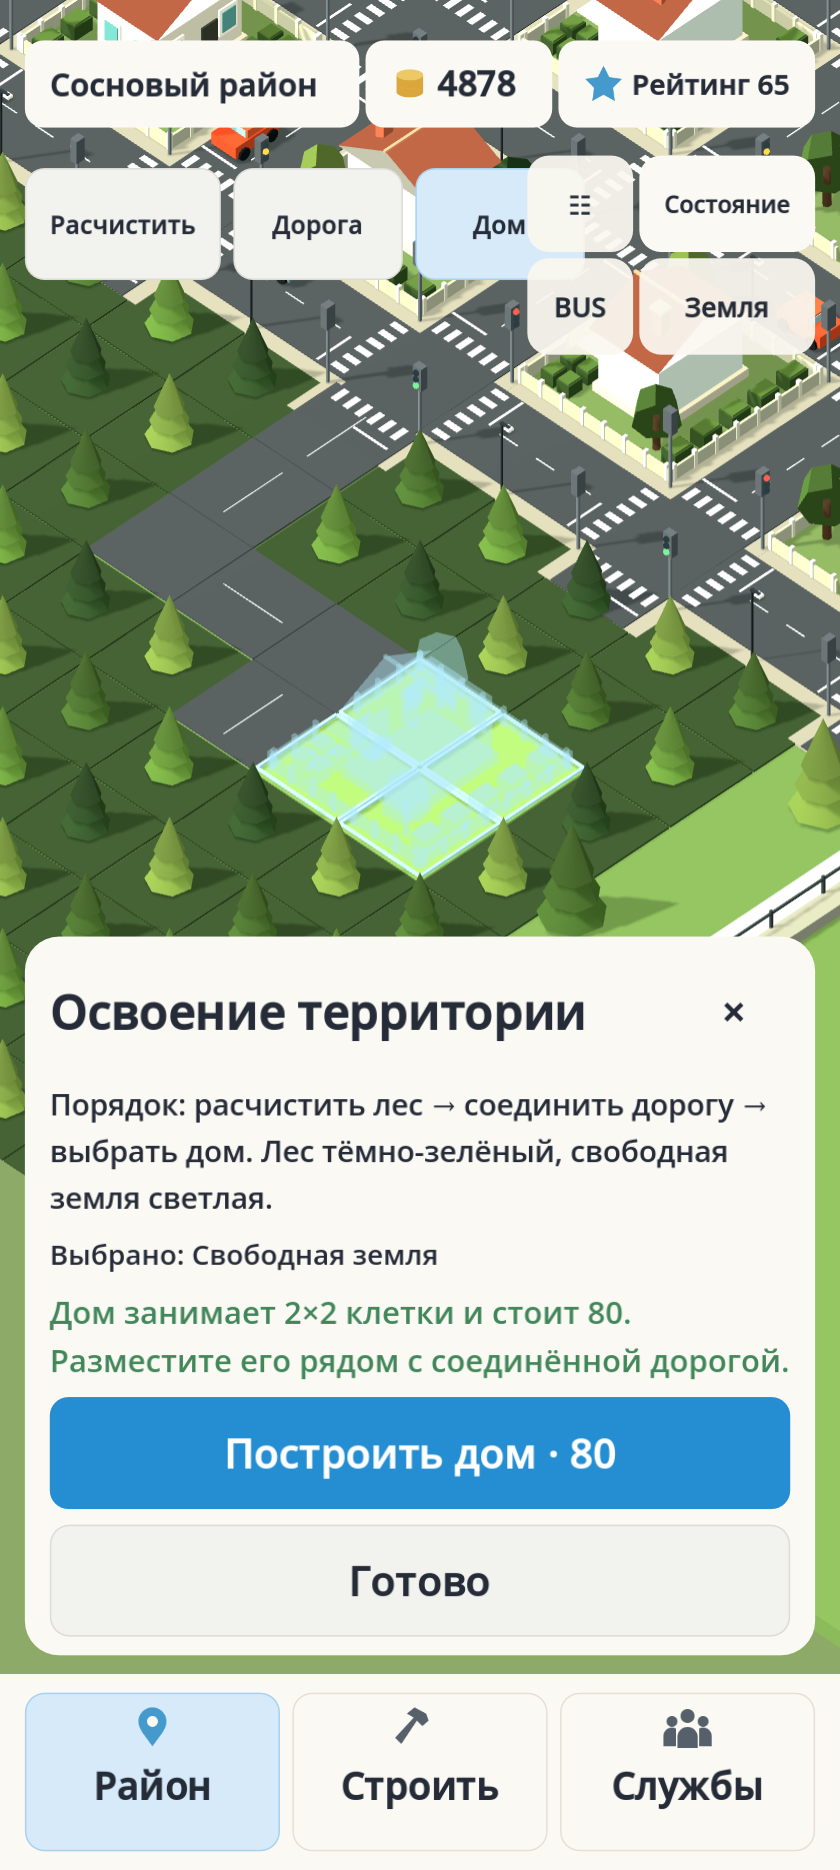
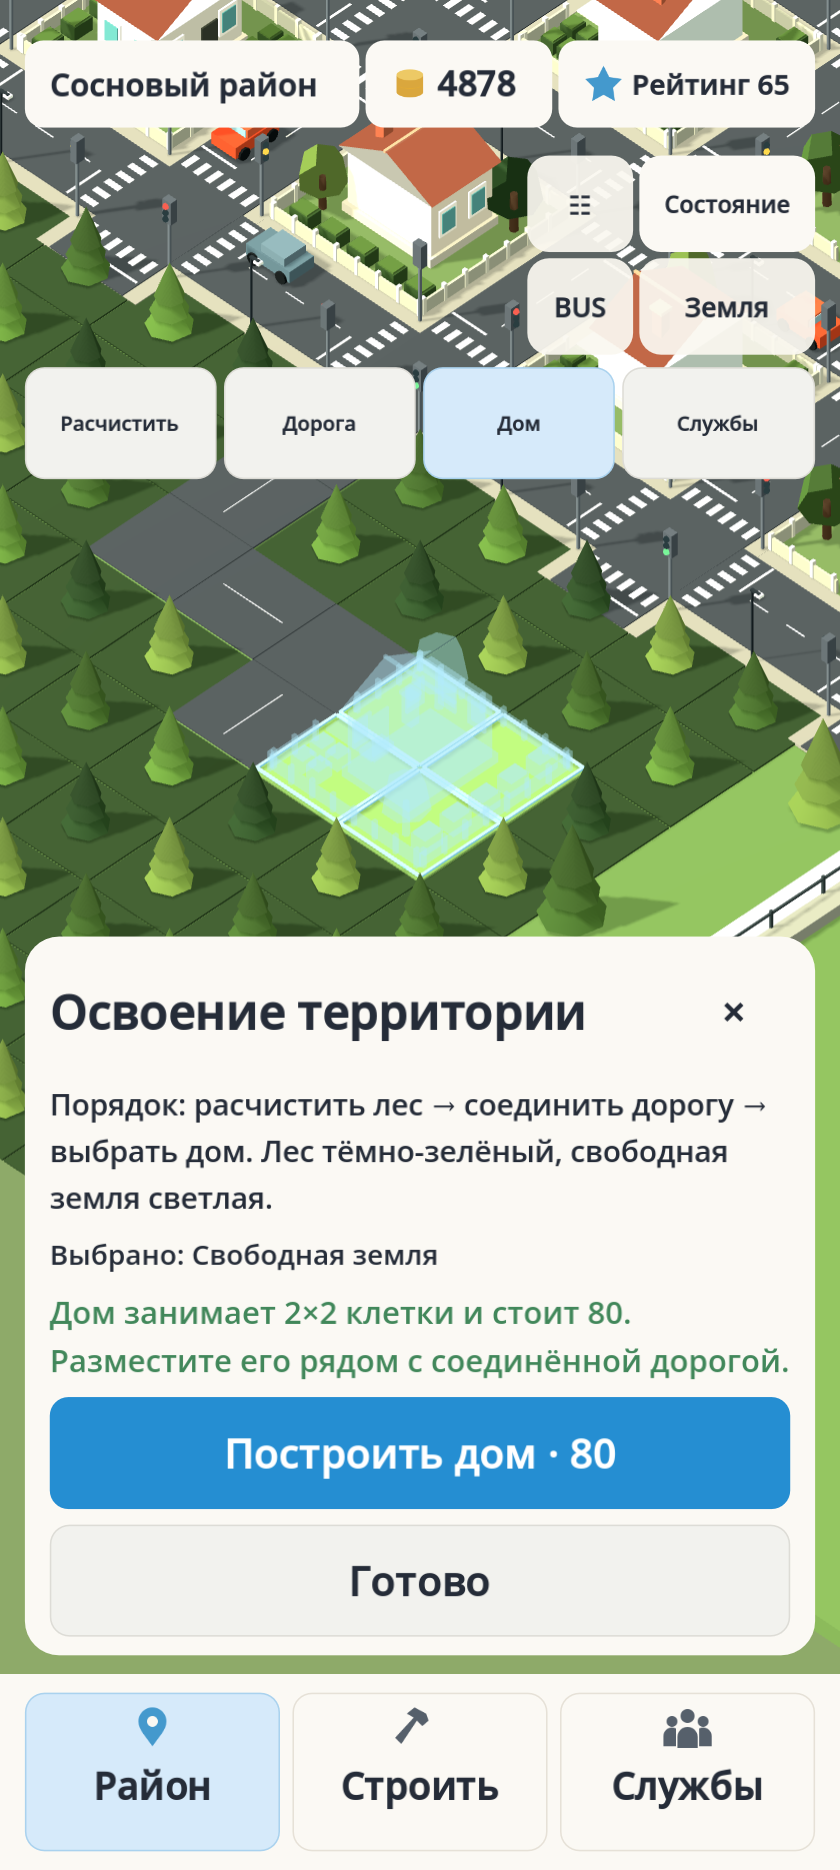
Place service buildings through territory construction

Changed region(s): [[0.031, 0.1861, 0.9905, 0.2791], [0.031, 0.062, 0.681, 0.1551]]

diff --git a/docs/GAME_DESIGN.md b/docs/GAME_DESIGN.md
@@ -105,7 +105,7 @@
 
 Роли объектов: кафе — отдых, привлекательность и рабочие места; магазин — повседневные потребности; торговый центр — много рабочих мест/посетителей и повышенная дорожная нагрузка; гостиница/отель — единый тип hotel с разными уровнями, туристы/доход и потребность в транспорте/безопасности. Каждому типу задать назначение, стоимость, влияние и сменную обёртку VisualRoot в каталоге. Магазин/молл/туристы пока не считаются действующими системами до их этапа.
 
-Свои здания и машины: fire_station — пожарное депо/пожарная машина/пожар; police_station — полицейский участок/патруль/порядок; hospital — больница/скорая/медицинский вызов; существующий depot — коммунальное депо («дом рабочих»)/ремонтная машина/трубы, светофоры, дороги. Отдельное дублирующее коммунальное здание не создавать. На первом варианте одна машина на здание; связь с конкретным instance_id сохраняется.
+Свои здания и машины: игрок сам строит и размещает `fire_station` (пожарное депо), `police_station` (полицейский участок), `hospital` (больница) и `depot` (дом рабочих — коммунальная бригада). Служебные здания не появляются автоматически в фиксированной клетке. Для установки нужно расчистить участок 2×2 и обеспечить доступ к связанной с городом дороге; занятые клетки нельзя перекрыть дорогой или другой постройкой. В меню показываются стоимость и причина запрета. Каждая будущая служба закрепляется за конкретным зданием и машиной по постоянным ID; отдельное дублирующее коммунальное здание не создавать.
 
 Единые правила поручений: физический выезд из исходного здания, движение по дорогам с фазами/очередями/пробками, работа, возвращение в то же здание. До возврата машина занята; панель ясно сообщает об этом. Расстояние и дорожная обстановка определяют прибытие; при размещении показывается дорожный доступ. Улучшение службы меняет её визуал и возможности. Активный выезд блокирует перенос/снос исходного здания с объяснением. Сохраняются связь машины с депо, событие, поручение и фаза. Огонь/дым/работы — ограниченный пул 2D-эффектов.
 
@@ -114,7 +114,7 @@
 ## Угрозы и активное время
 Каждая угроза проходит предупреждение → развитие → последствия. Причина и таймер до ухудшения доступны в панели по нажатию, без постоянной перегрузки карты. Одновременные события ограничены, начало игры спокойное. В фоне/закрытой игре угрозы не развиваются. Сохраняются стадии, таймеры активного времени, повреждения, подключения и поручения. Повреждённые здания восстанавливаются; перед непригодностью или окончательным разрушением обязательно предупреждение.
 
-Первый пожарный сценарий реализован: после завершения начального квартала возникает один очаг в доме и начинается 18-секундное предупреждение. При бездействии через 12 секунд горения соседний дом получает отдельный маркер и 16-секундное предупреждение; одновременно активны максимум два очага. Огонь накапливает адресный ущерб, постепенно снижая население, доход и качество жизни; при 100% дом временно перестаёт заселяться. Пожарная часть размещена у дорожной сети на пустом участке, одна машина выезжает к дому, тушит оба активных очага и возвращается. Повреждённый дом можно восстановить за цену, показанную в его карточке. Маркеры дают уровень опасности цветом и числом, небольшое пламя/дым показаны 2D billboard-эффектом. Событие и дорога сохраняются в v4; таймеры движутся только в активной игре.
+Первый пожарный сценарий пока сохраняет раннюю механику одного поручения: после завершения начального квартала возникает очаг с 18-секундным предупреждением, а при бездействии появляется угроза соседу. Для выезда теперь требуется построенное игроком `fire_station`; новая игра не создаёт депо автоматически. Маршрут берёт точку отправления из записи этого здания. Адресный ущерб, активные таймеры и выезд сохраняются в v4; таймеры движутся только в активной игре. Отдельные машины для нескольких очагов, радиосообщение, блокировка движения, полиция и руины при 100% повреждений остаются задачами текущего этапа пожаров.
 
 Следующие уровни угроз остаются будущим содержимым: огонь пока не уничтожает здание окончательно, электричество/ночь, заболевания и недовольство ещё не реализованы.
 

diff --git a/docs/PROJECT_STATE.md b/docs/PROJECT_STATE.md
@@ -1,5 +1,18 @@
 # Состояние проекта
 
+## Карта и строительство служб — локальная проверка 23.10.2026
+
+- Пожарная часть больше не создаётся автоматически в закреплённом месте новой игры. Игрок может выбрать «Службы» в меню земли и построить пожарное депо, полицейский участок, больницу или дом рабочих на очищенном и дорожнодоступном footprint 2×2.
+- Все четыре типа сохраняются в сетке с постоянным `type_id` и `instance_id`; клетки отмечаются занятыми. Попытка поставить на них дом или дорогу отклоняется. Снос занятого источника выезда блокируется, пока поручение активно.
+- Если пожар уже начался, а пожарной части нет, карточка предлагает перейти к строительству депо. Новый dispatch берёт фактическое положение построенной части. Старый идентификатор депо допускается только при загрузке сохранённого старого рейса.
+- Пересчёт касаний выбирает старые/новые здания до автомобилей, чтобы крупная зона нажатия машины не перехватывала края крыш. В режиме земли используется floor-сопоставление указательной точки с ячейкой; расчистка, дороги и footprint 2×2 отдельно подтверждаются.
+- Режимы земли теперь стоят в отдельном ряду под MapTools, когда экран узкий или открыто меню с четырьмя режимами. Это исправлено по реальному настольному Compatibility-рендеру: первый снимок выявил наложение, следующий подтвердил разделённые ряды.
+- Карточка существующего здания использует высоту содержимого. Пустой низ карточки кафе устранён.
+- Снимок новой земли с доступным выбором дома: [новая земля и выбор постройки](screenshots/new_land_build_choice.png), 840×1870, настольный Compatibility-рендер.
+- `expansion_scenario_test.gd`, `expansion_ui_test.gd`, `responsive_ui_test.gd` проходят; полный `tools/run_checks.ps1` после исправления приоритета касаний прошёл все 14 наборов.
+
+На телефоне этот проход не проверялся: владелец отключил устройство и попросил завершать работу локально. Экранную приёмку на Galaxy S21+ не заявляю.
+
 ## Карточка дома: безопасная ширина и закрытие касанием — 23.10.2026
 
 - Ширина карточек теперь считается с учётом боковых безопасных полей. Текст не выталкивает панель за край; заголовок обрезается с многоточием при нехватке места, кнопка «×» сохраняет минимум 72 единицы и остаётся в границах.

diff --git a/docs/ROADMAP.md b/docs/ROADMAP.md
@@ -1,5 +1,14 @@
 # План разработки
 
+## Текущий проход по управлению, транспорту и пожарам
+- [x] Игрок размещает пожарное депо, полицейский участок, больницу и дом рабочих из меню освоения территории; все занимают 2×2 клетки, требуют расчищенную площадку и связанную дорогу, сохраняются под стабильным type_id.
+- [x] Удалено автоматическое пожарное депо в фиксированной клетке. В карточке пожара без депо есть понятный переход к его строительству.
+- [x] На узких портретных экранах режимы земли переносятся ниже плавающих кнопок. Проверены касания, безопасные границы и карточка кафе по фактическому рендеру 840×1870.
+- [x] Касания зданий приоритетнее новых областей выбора машин; старые края крыш регрессионно проверяются.
+- [ ] Этап 2: остановки и автобусы на сетевом маршруте произвольной длины, с поворотами и пересечениями; выбор автобуса показывает путь.
+- [ ] Этап 3: отдельная машина для каждого пожара, автоматическое 911-сообщение/RU-EN радио, animated 2D дым, сирена/маяки, блокировка дороги и очередь, очистка полицией, уничтожение/руины/восстановление.
+- [ ] Для каждого этапа — полный набор регрессий, Compatibility-скриншоты; APK/S21+ после локальной приёмки. По просьбе владельца текущая работа проверяется локально без телефона.
+
 ## Этап 2 — лесная окраина и строительство общей дорожной сети (реализован и проверен)
 - [x] Спроектирована сетка клеток `forest/free/road/occupied`, многоклеточные здания, постоянный город/районы в структуре сохранения.
 - [x] Старый фиксированный квартал переносится в сетку без сброса бюджета и зданий; старые сохранения продолжают загружаться.
